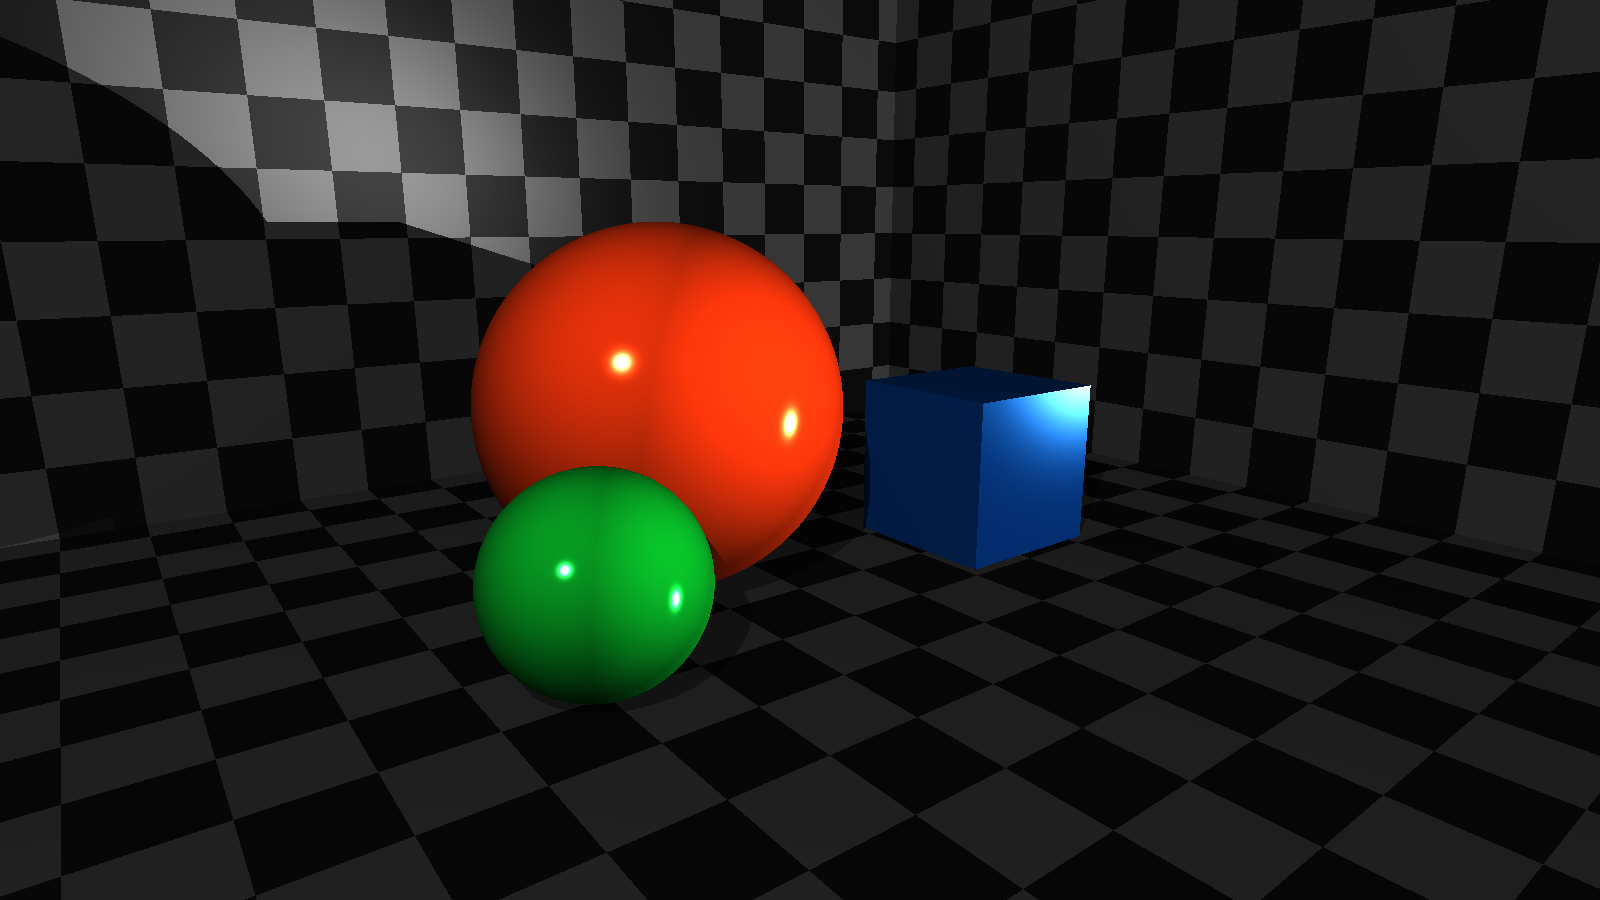
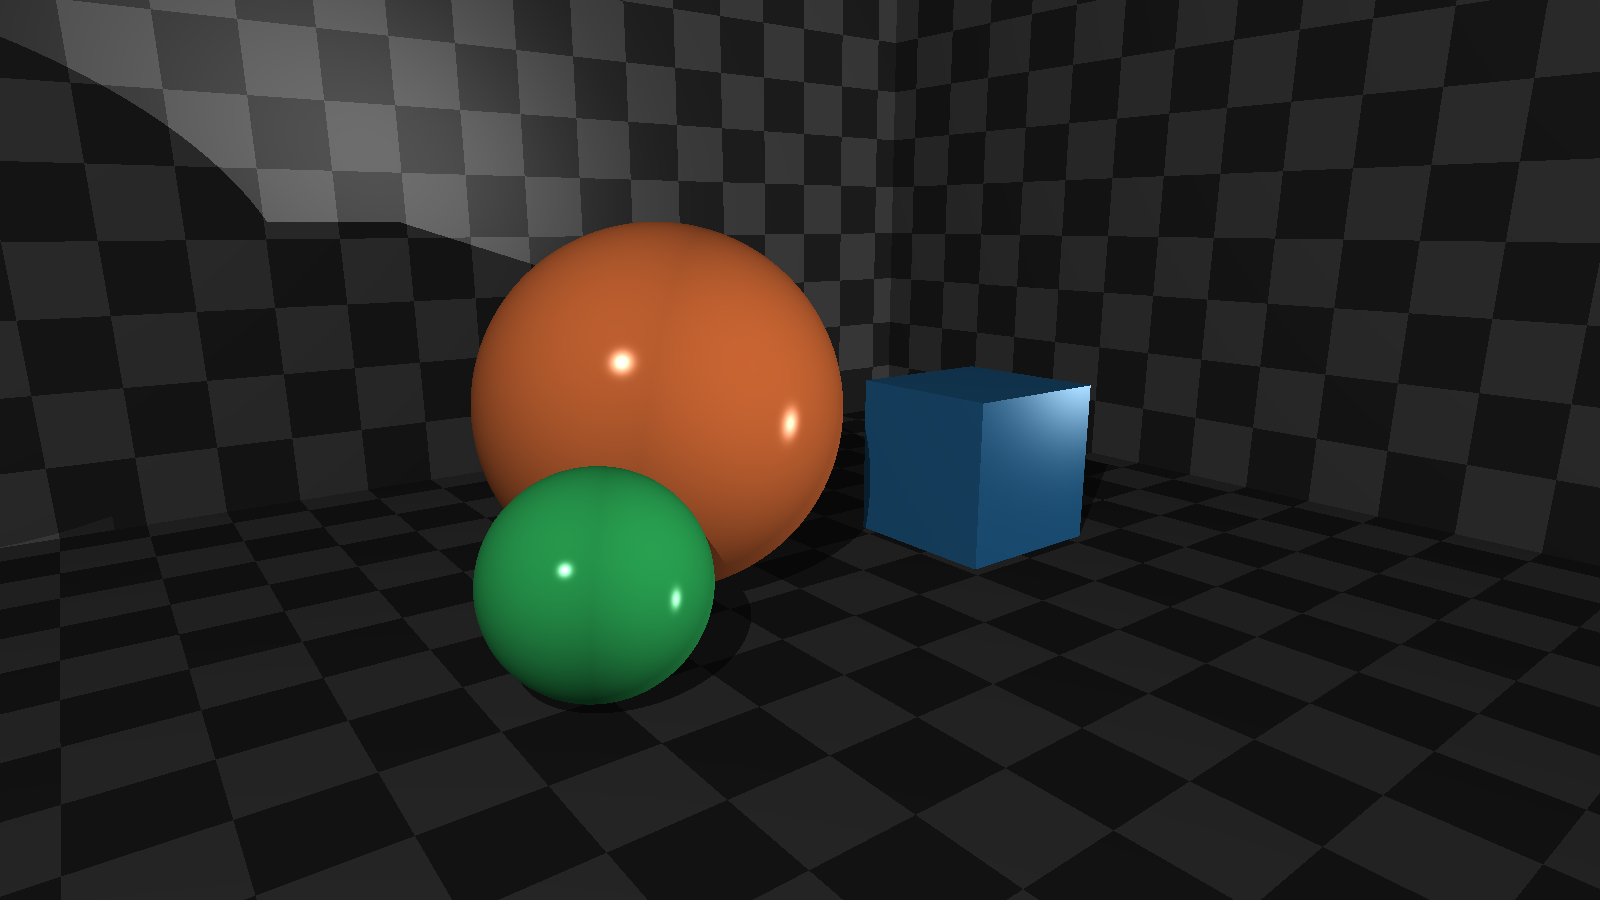
fix ambient error and remove gamma( should be fixed )

Changed region(s): [[0.2812, 0.2489, 0.6875, 0.7778], [0.0938, 0.0, 0.3438, 0.28]]

diff --git a/src/main.rs b/src/main.rs
@@ -20,10 +20,10 @@ fn main() {
 
     let mut world = World::new();
 
-    let light1 = PointLight::new(point(-5.0, 5.0, 5.0), Color::WHITE);
+    let light1 = PointLight::new(point(-5.0, 5.0, 5.0), Color::WHITE * 0.9);
     world.add_pointlight(light1);
 
-    let light2 = PointLight::new(point(5.0, 0.0, 5.0), Color::WHITE);
+    let light2 = PointLight::new(point(5.0, 0.0, 5.0), Color::WHITE * 0.7);
     world.add_pointlight(light2);
 
     let mut sphere1 = Sphere::new(point(-0.5, 1.0, 10.0), 1.0);
@@ -35,14 +35,14 @@ fn main() {
     world.add_object(sphere2);
 
     let mut aabb1 = Aabb::new(point(-4.0, 0.0, -25.0), point(4.0, 100.0, 13.0), false);
-    aabb1.mat = Material::new(Color::new(0.3, 0.3, 0.3), MaterialPattern::Check, 0.5, 0.4, 0.3, 100.0);
+    aabb1.mat = Material::new(Color::new(0.3, 0.3, 0.3), MaterialPattern::Check, 0.2, 0.4, 0.3, 100.0);
     world.add_object(aabb1);
 
     let mut aabb2 = Aabb::new(point(1.0, 0.0, 9.0), point(2.0, 1.0, 10.0), true);
     aabb2.mat = Material::new(Color::new(0.2, 0.6, 0.9), MaterialPattern::Solid, 0.2, 0.3, 1.0, 200.0);
     world.add_object(aabb2);
 
-    let mut canvas = Canvas::new(width, height, None);
+    let mut canvas = Canvas::new(width, height, Some(1.0));
 
     for ix in 0..width {
         for iy in 0..height {

diff --git a/src/canvas.rs b/src/canvas.rs
@@ -8,7 +8,7 @@ pub struct Canvas {
 }
 
 impl Canvas {
-    /// gamme: gamma correction value. pow(color, 1/gamma). 2.2 if None
+    /// gamma: gamma correction value. pow(color, 1/gamma). 2.2 if None
     pub fn new(width: u32, height: u32, gamma: Option<f32>) -> Self {
         let buff = vec![Color::new(0.0, 0.0, 0.0); (width * height) as usize];
         let gamma = if let Some(gamma) = gamma { gamma } else { 2.2 };
@@ -41,9 +41,9 @@ impl Canvas {
             let (x, y) = Self::get_xy(self.width, idx as u32);
 
             let color = image::Rgb([
-                (f32::powf(color.red.clamp(0.0, 1.0), self.gamma) * 255.0) as u8,
-                (f32::powf(color.green.clamp(0.0, 1.0), self.gamma) * 255.0) as u8,
-                (f32::powf(color.blue.clamp(0.0, 1.0), self.gamma) * 255.0) as u8,
+                (f32::powf(color.red.clamp(0.0, 1.0), 1. / self.gamma) * 255.0 + 0.5) as u8,
+                (f32::powf(color.green.clamp(0.0, 1.0), 1. / self.gamma) * 255.0 + 0.5) as u8,
+                (f32::powf(color.blue.clamp(0.0, 1.0), 1. / self.gamma) * 255.0 + 0.5) as u8,
             ]);
 
             *image.get_pixel_mut(x, y) = color;

diff --git a/src/point_light.rs b/src/point_light.rs
@@ -19,15 +19,13 @@ pub fn point_lighting(
     normalv: Vec4,
     is_shadowed: bool,
 ) -> Color {
-    let color = material.color(position);
-
     if is_shadowed {
-        return material.ambient * color;
+        return Color::BLACK;
     }
 
+    let color = material.color(position);
     let effective_color = color * light.intensity;
     let lightv = (light.pos - position).normalize();
-    let ambient = effective_color * material.ambient;
     let light_dot_normal = lightv.dot(normalv);
 
     let diffuse;
@@ -48,7 +46,7 @@ pub fn point_lighting(
         }
     }
 
-    ambient + diffuse + specular
+    diffuse + specular
 }
 
 #[cfg(test)]

diff --git a/src/world.rs b/src/world.rs
@@ -42,7 +42,8 @@ impl World {
         } else {
             let front_most = intersections.iter().filter(|i| i.t > 0.0).next();
             if let Some(front_most) = front_most {
-                let mut acc_color = Color::BLACK;
+                //let mut acc_color = Color::BLACK;
+                let mut acc_color = front_most.material.color(front_most.pos) * front_most.material.ambient;
                 for light in &self.point_lights {
                     let is_shadowed = self.is_shadowed(front_most.pos, light);
                     acc_color += point_lighting(
